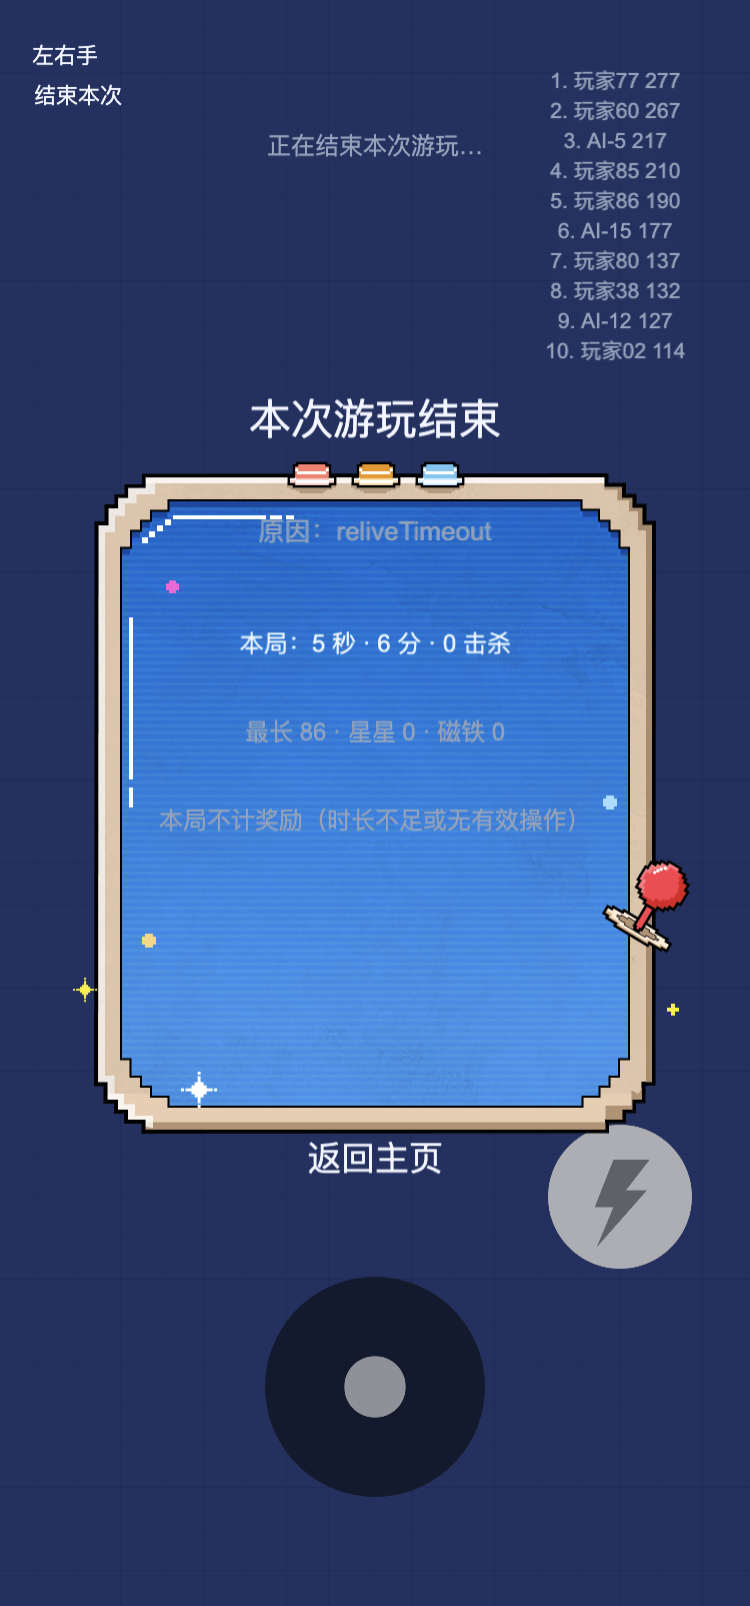
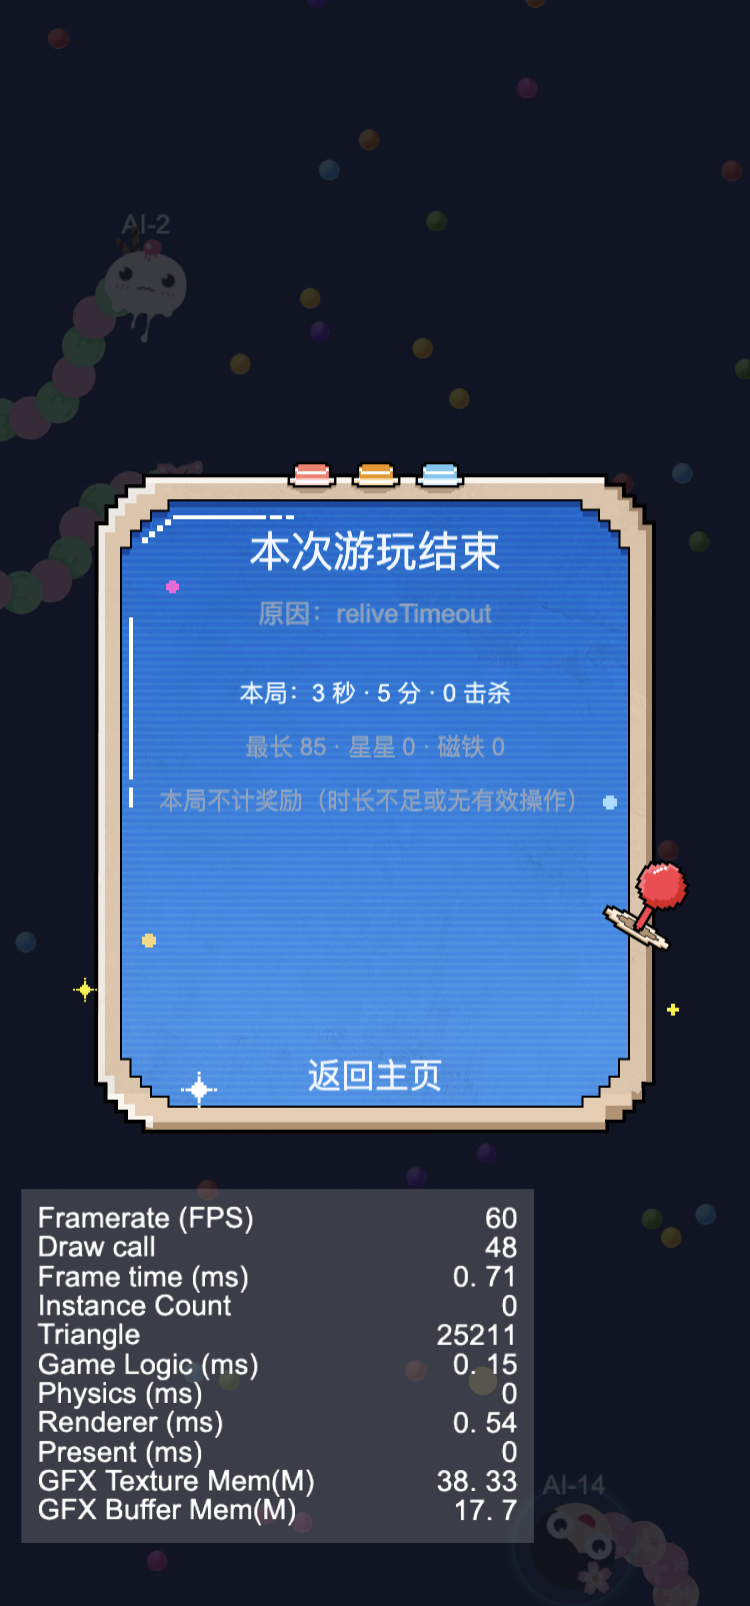
文档：F5～F8 真机验证结案，三张证据重拍
Creator 3.8.8 实测判据（不只是目视）：
- F5a 结算层子节点 y：标题 253、原因 191、三行 111/57/3、返回主页 −271，全部落在底板 ±347 内
  （修复前 385 与 −353，出界）。
- F5b SnakeWorld.Hud.active=false、SnakeWorld.Controls.active=false；画面上左右手/结束本次/
  排行榜/摇杆/加速键全部消失。
- F6 SnakeWorld.Relive 第一个子节点是 backdrop，全屏压暗 + 居中面板，文字与两个按钮完全可读。
- F7 preview-* 的 UITransform 实测 149×46.8、sizeMode=0(CUSTOM)、左边缘 world x=86
  （修复前 420 宽、左边缘越出面板）。
- F8 结算页显示时点击原「结束本次」位置，EndRunConfirm 不出现。

⚠ F7 仍无 Node 侧回归闸：WardrobeView 只有 logic 层测试，视图层要连 getSnakeCosmeticRuntime
与 resources.load 一起搭台，本轮未做——它只有代码审阅 + 上面这条真机实测撑着，
⛔ 别当成已被 verify:all 覆盖。
⚠ S5-CR-02 只做了一半：三层弹窗的重叠已修并实测，safeBottom=0/100 两组对比仍未做。

diff --git a/docs/s/README.md b/docs/s/README.md
@@ -194,7 +194,7 @@ shared 继续保持零依赖，客户端 View/Logic 与 FairyGUI 动态加载边
 | S3-0 | `[已完成]` | `89b9b03`（漂移订正）+ 本次（拍板回写） | 建档基线 `verify:all` exit 0：client 423/423、server 541/541、FGUI 66/66、inventory 14 能力/5 入口（2026-09-05 实测于 `f262be1`；README §8 上面各行的 384/499 等计数是钉在各自 commit 的历史值，不代表 HEAD） | 不适用（纯文档订正与拍板登记） | A=服务端单方面权威、B=B2a+B0、C=① 离房重进（§9.1）；剩余待决项 §9.6 不阻塞 S3-1 |
 | S3 | `[已拍板·待实施]` | — | — | — | 内存先记；同一 HASH 镜像衣柜字段 |
 | S4 | `[已拍板·待实施]` | — | — | — | 内存同步奖励；同一 HASH 镜像养成字段 |
-| S5 | `[进行中]` | 本次 | S5-01 候选已冻结；S5-02 `verify:all` exit 0（client 436/436、server 609/609、FGUI 66/66、inventory 110/110） | Creator 3.8.8 预览首跑完成，8 张证据见 `evidence/s5/creator/`；⛔ 真栈 int 仍未跑 | S5-05 首跑修复 F1（`SpriteFrame.pivot` 只读赋值废掉整条资源装载链）与 F2/F3/F4（`UIMeshRenderer` 无渲染组件 + 静态网格 + `builtin-ui` effect 不存在，三者叠加使蛇身/食物网格零渲染）；F10（蛇身几何改为原作的离散重叠精灵）、F11（ACES 色调映射致身体与头色差）与 F12（`updateSubMesh` 不同步 InputAssembler，绘制量永不收缩）亦已修，六条均已真机验证；F5～F8（结算页排版与 HUD 未收起、复活提示无底、衣柜预览条 sizeMode 顺序 bug、结算页上重复开确认框）亦已修，⚠ 这四条的真机目视待补；⛔ 不得据此宣称 demo 可放行 |
+| S5 | `[进行中]` | 本次 | S5-01 候选已冻结；S5-02 `verify:all` exit 0（client 436/436、server 609/609、FGUI 66/66、inventory 110/110） | Creator 3.8.8 预览首跑完成，8 张证据见 `evidence/s5/creator/`；⛔ 真栈 int 仍未跑 | S5-05 首跑修复 F1（`SpriteFrame.pivot` 只读赋值废掉整条资源装载链）与 F2/F3/F4（`UIMeshRenderer` 无渲染组件 + 静态网格 + `builtin-ui` effect 不存在，三者叠加使蛇身/食物网格零渲染）；F10（蛇身几何改为原作的离散重叠精灵）、F11（ACES 色调映射致身体与头色差）与 F12（`updateSubMesh` 不同步 InputAssembler，绘制量永不收缩）亦已修，六条均已真机验证；F5～F8（结算页排版与 HUD 未收起、复活提示无底、衣柜预览条 sizeMode 顺序 bug、结算页上重复开确认框）亦已修，四条均已真机验证（结算层 y 实测 253/−271 落在底板 ±347 内、HUD 与操作区 inactive、复活层首子节点为 backdrop、预览条 149×46.8 CUSTOM）；⛔ 不得据此宣称 demo 可放行 |
 
 内部 demo 口径只能在 S5 全部退出条件满足并经用户确认后使用：
 
